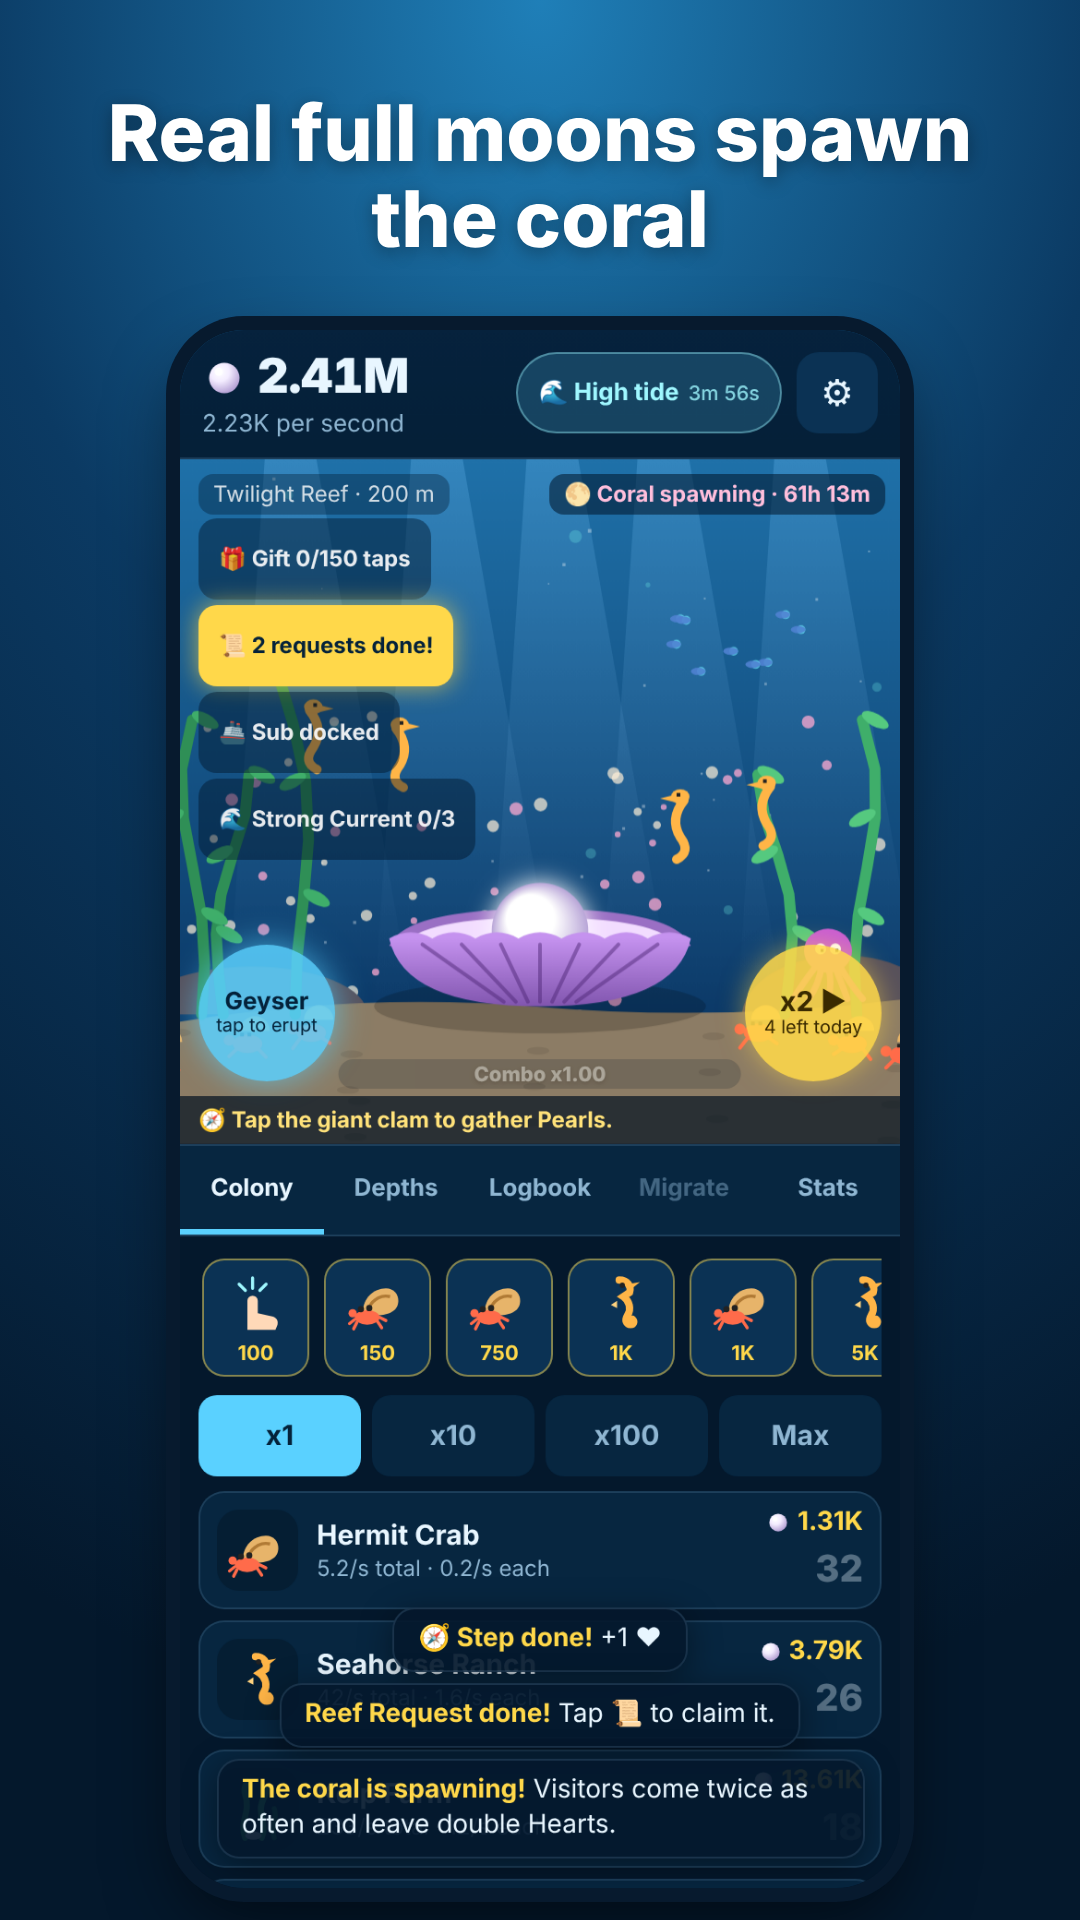
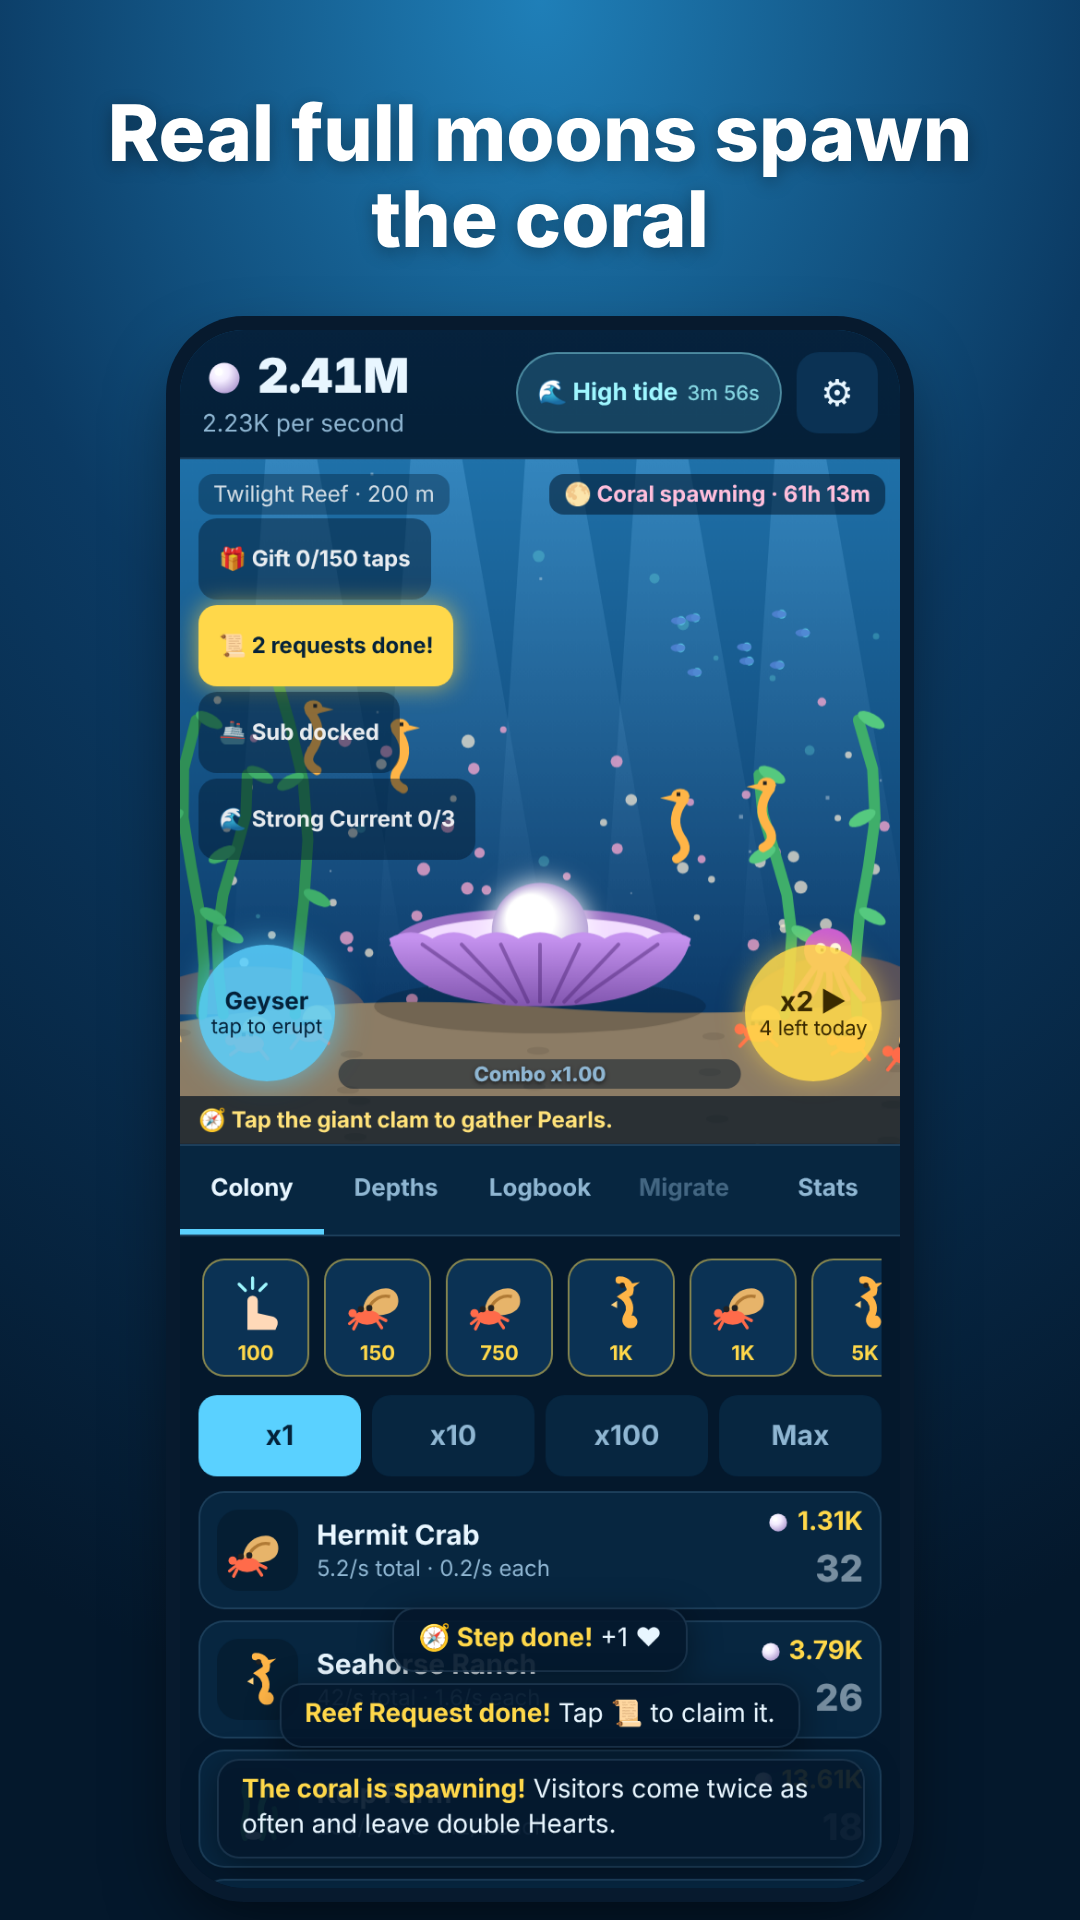
Fathom: readability pass, audit checks text size and contrast
Claude-Session: https://claude.ai/code/session_01X25pDiwaU5FyRJ8RMUXnpT

diff --git a/deep-sea/www/styles.css b/deep-sea/www/styles.css
@@ -29,7 +29,7 @@ svg { display: block; width: 100%; height: 100%; }
 .pearls .ico { width: 24px; height: 24px; flex: none; }
 .pps { color: var(--muted); font-size: 13px; }
 .chip { min-height: 44px; padding: 6px 12px; border-radius: 999px; font-size: 13px; font-weight: 700; white-space: nowrap; }
-.chip small { font-weight: 500; opacity: 0.8; margin-left: 2px; }
+.chip small { font-size: 11px; font-weight: 500; opacity: 0.8; margin-left: 2px; }
 .chip.high { background: rgba(90, 209, 255, 0.2); color: #9ff7ff; box-shadow: inset 0 0 0 1px rgba(159, 247, 255, 0.4); }
 .chip.low { background: rgba(75, 224, 192, 0.14); color: var(--good); box-shadow: inset 0 0 0 1px rgba(75, 224, 192, 0.3); }
 .icon-btn { width: 44px; height: 44px; border-radius: 12px; background: var(--panel-2); font-size: 20px; }
@@ -60,7 +60,7 @@ svg { display: block; width: 100%; height: 100%; }
 @keyframes glow { to { box-shadow: 0 0 4px rgba(255, 216, 74, 0.3); } }
 .geyser { position: absolute; left: 10px; bottom: 34px; width: 74px; height: 74px; border-radius: 50%; display: flex; flex-direction: column; align-items: center; justify-content: center; line-height: 1.1; background: rgba(0, 20, 40, 0.55); color: var(--muted); box-shadow: inset 0 0 0 2px rgba(159, 247, 255, 0.25); }
 .geyser b { font-size: 13px; color: var(--text); }
-.geyser small { font-size: 10px; }
+.geyser small { font-size: 11px; }
 .geyser.ready { background: rgba(90, 209, 255, 0.85); color: #04223a; box-shadow: 0 0 18px rgba(90, 209, 255, 0.7); }
 .geyser.ready b { color: #04223a; }
 .geyser.active { background: rgba(159, 247, 255, 0.9); color: #04223a; animation: glow 0.3s ease-in-out infinite alternate; }
@@ -72,7 +72,7 @@ svg { display: block; width: 100%; height: 100%; }
 .gday.today { box-shadow: inset 0 0 0 2px var(--gold); }
 #surge { position: absolute; right: 10px; bottom: 34px; width: 74px; height: 74px; border-radius: 50%; display: flex; flex-direction: column; align-items: center; justify-content: center; line-height: 1.1; background: rgba(255, 216, 74, 0.88); color: #3a2a00; box-shadow: 0 0 14px rgba(255, 216, 74, 0.5); }
 #surge b { font-size: 15px; }
-#surge small { font-size: 10px; }
+#surge small { font-size: 11px; }
 #surge.spent { background: rgba(0, 20, 40, 0.55); color: var(--muted); box-shadow: none; }
 .boost.surge { color: var(--accent); }
 .adbreak { position: fixed; inset: 0; z-index: 20; background: rgba(0, 6, 14, 0.94); display: grid; place-items: center; padding: 20px; }
@@ -85,7 +85,8 @@ svg { display: block; width: 100%; height: 100%; }
 .boost.burst { color: #9ff7ff; }
 .boost.whale { color: #bfe3ff; }
 #combo { position: absolute; left: 50%; bottom: 30px; transform: translateX(-50%); width: 56%; height: 16px; border-radius: 999px; background: rgba(0, 20, 40, 0.5); overflow: hidden; pointer-events: none; transition: opacity 0.4s; }
-#combo.idle { opacity: 0.35; }
+#combo.idle .fill { opacity: 0.35; }
+#combo.idle span { color: var(--muted); }
 #combo .fill { height: 100%; width: 0; background: linear-gradient(90deg, #2e86c1, #5ad1ff, #9ff7ff); border-radius: 999px; }
 #combo.full .fill { background: linear-gradient(90deg, #ffb000, #ffd84a, #fff3a0); }
 #combo span { position: absolute; inset: 0; display: grid; place-items: center; font-size: 11px; font-weight: 800; text-shadow: 0 1px 2px rgba(0, 0, 0, 0.6); }
@@ -125,7 +126,7 @@ h3 { margin: 18px 4px 8px; font-size: 15px; }
 .gc .cost { display: flex; align-items: center; gap: 3px; font-weight: 700; color: var(--gold); font-size: 14px; white-space: nowrap; }
 .gc .cost svg { width: 14px; height: 14px; }
 .gc .cost i { font-style: normal; color: var(--muted); font-size: 11px; }
-.gc .count { font-size: 20px; font-weight: 800; color: rgba(232, 246, 255, 0.35); }
+.gc .count { font-size: 20px; font-weight: 800; color: rgba(232, 246, 255, 0.5); }
 .gen.poor .cost { color: var(--bad); }
 .gen.poor { opacity: 0.8; }
 .gen.hidden-gen .gi svg { filter: brightness(0); opacity: 0.6; }
@@ -251,8 +252,8 @@ h3 .muted { color: var(--muted); font-weight: 600; }
 
 /* Short phones: the chip column needs the left side, so the geyser stacks above the surge button. */
 @media (max-height: 740px) {
-  .geyser, #surge { width: 60px; height: 60px; bottom: 44px; }
-  .geyser { left: auto; right: 10px; bottom: 110px; }
+  .geyser, #surge { width: 66px; height: 66px; bottom: 44px; padding: 0 4px; text-align: center; }
+  .geyser { left: auto; right: 10px; bottom: 116px; }
   .geyser b, #surge b { font-size: 12px; }
-  .geyser small, #surge small { font-size: 9px; }
+  .geyser small, #surge small { font-size: 11px; letter-spacing: -0.2px; }
 }

diff --git a/deep-sea/docs/DESIGN.md b/deep-sea/docs/DESIGN.md
@@ -396,3 +396,13 @@ idle games that complain about "fat finger" misses on small phones and buttons h
   settings gear and tide chip are all at least 44px. On short phones the geyser moves above the surge button so
   the clam stays clear. The check now reports no problems. Pacing is unchanged (1T at 89.8 minutes).
 - **Next:** a last pass over text contrast and readable font sizes, then the week two wrap-up.
+
+**Run 15 (Oct 23).** Sources: WCAG 2.1 AA contrast (4.5:1 for body text, 3:1 for large text), Android's
+guidance against text under 11sp, idle-game store reviews that mention "tiny unreadable numbers" on small phones.
+- The layout check (`npm run audit`) now also flags text under 11px and text below AA contrast, measured against
+  the panel behind it or the brightest common colour of the scene. It found 93 problems: the combo label faded to
+  2.8:1 when idle, owned counts at 2.9:1, and 9 to 10px labels on the geyser, surge button and tide timer.
+  **Built: a readability pass.** The idle combo bar now dims only its fill, owned counts are brighter, and every
+  label is at least 11px (the short-phone geyser and surge buttons grew to 66px to fit). The check reports no
+  problems. Pacing is unchanged (1T at 89.8 minutes).
+- **Next:** the week two wrap-up: a summary of what shipped and the release steps that still need cj.
